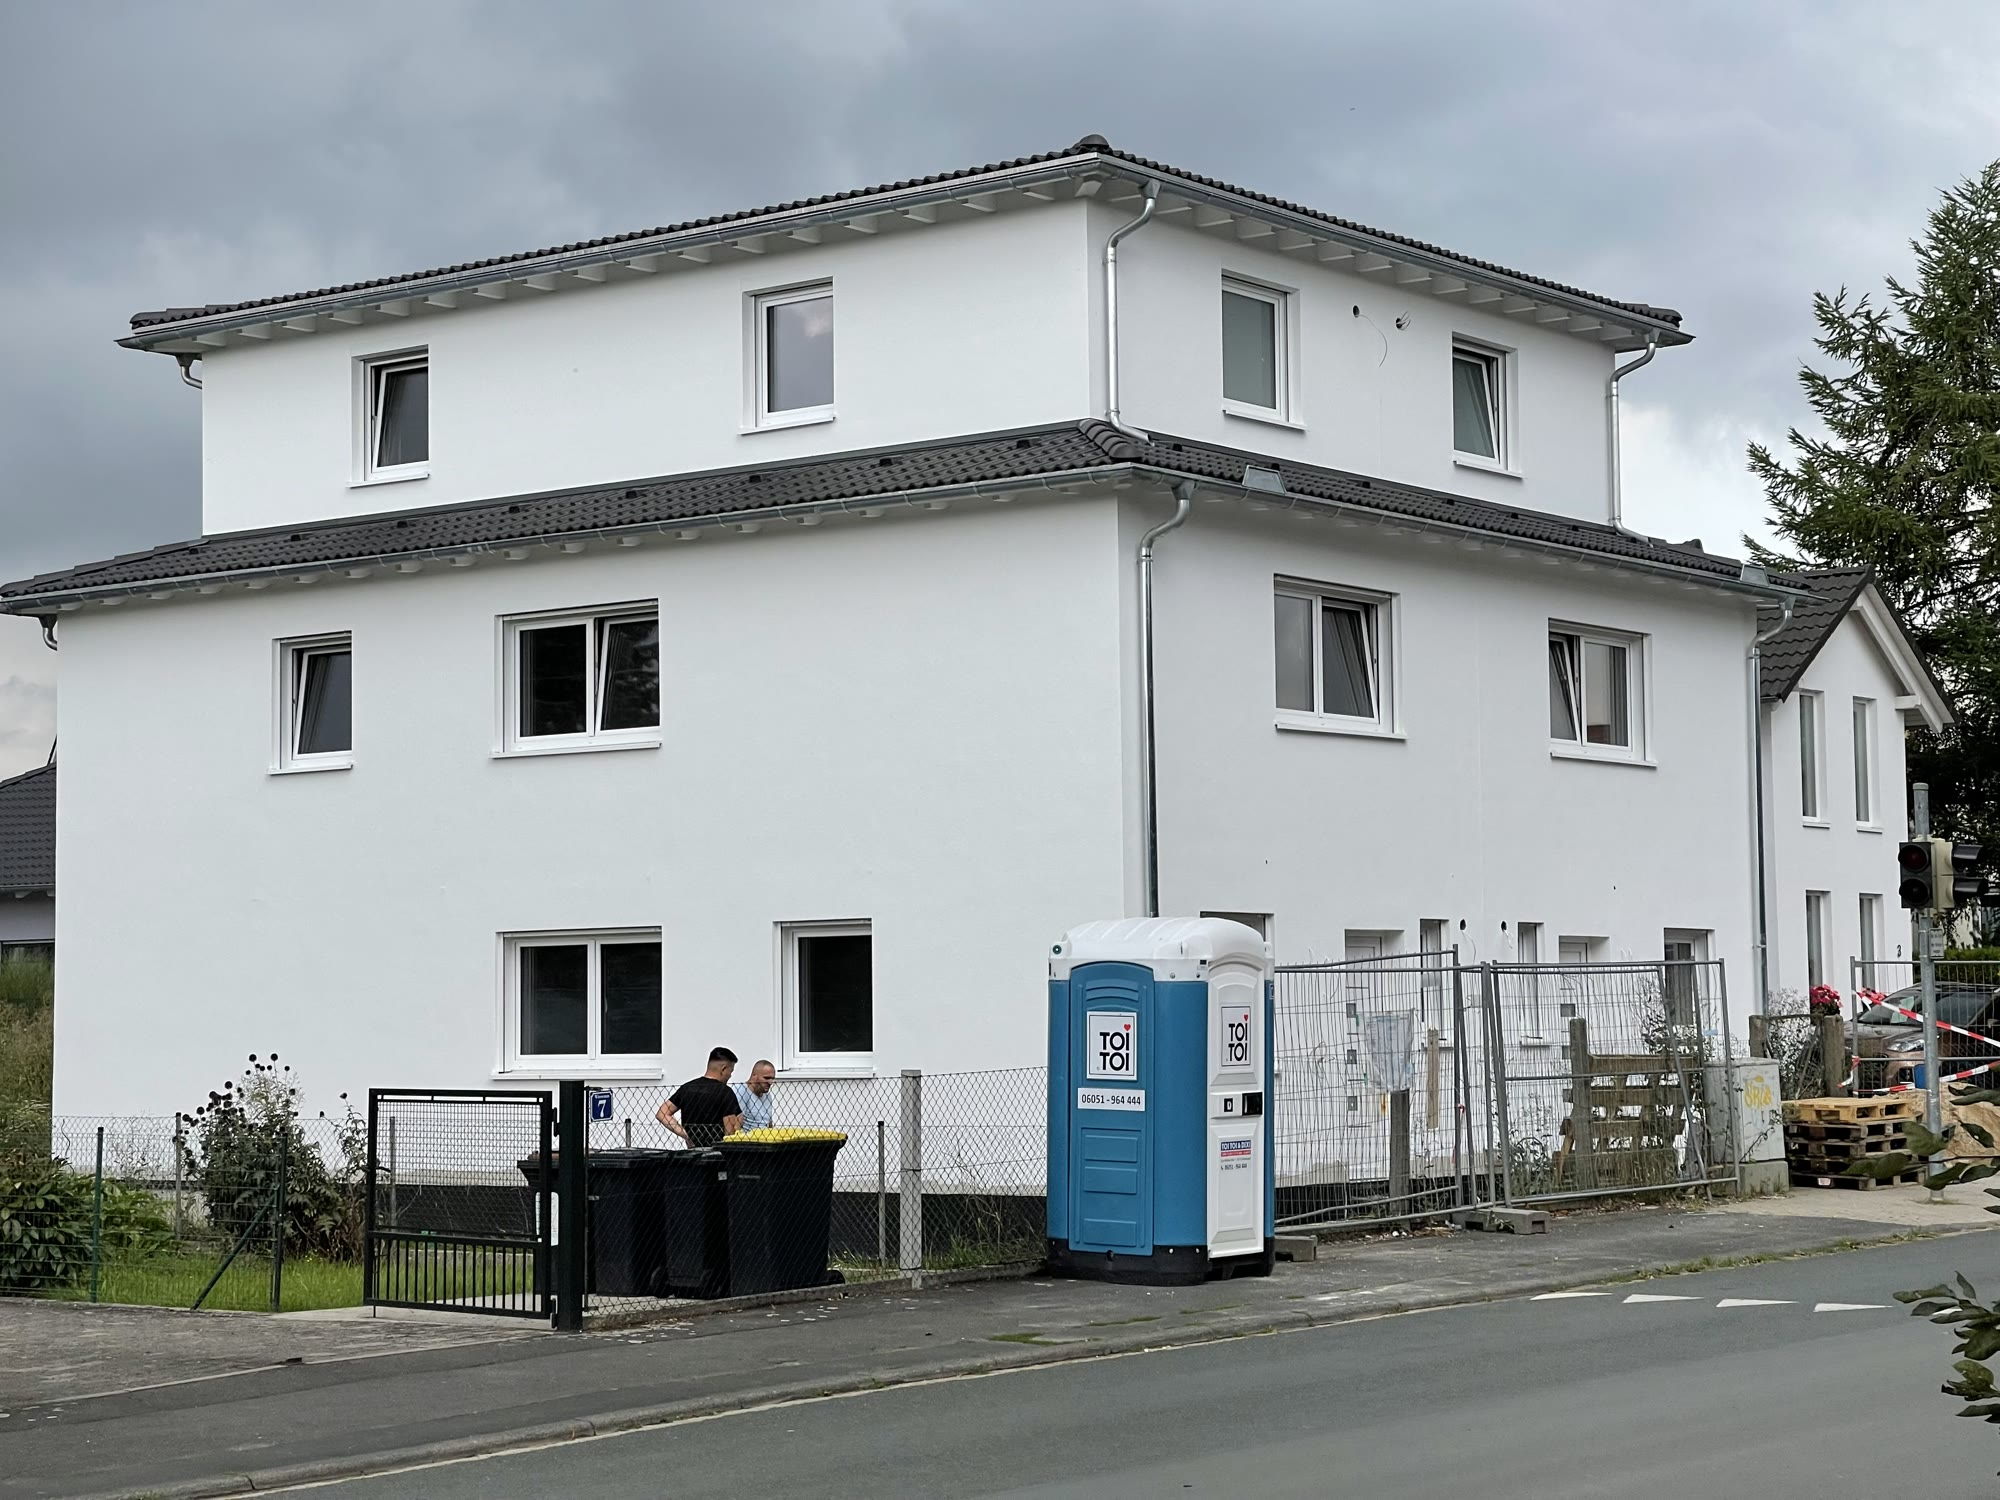
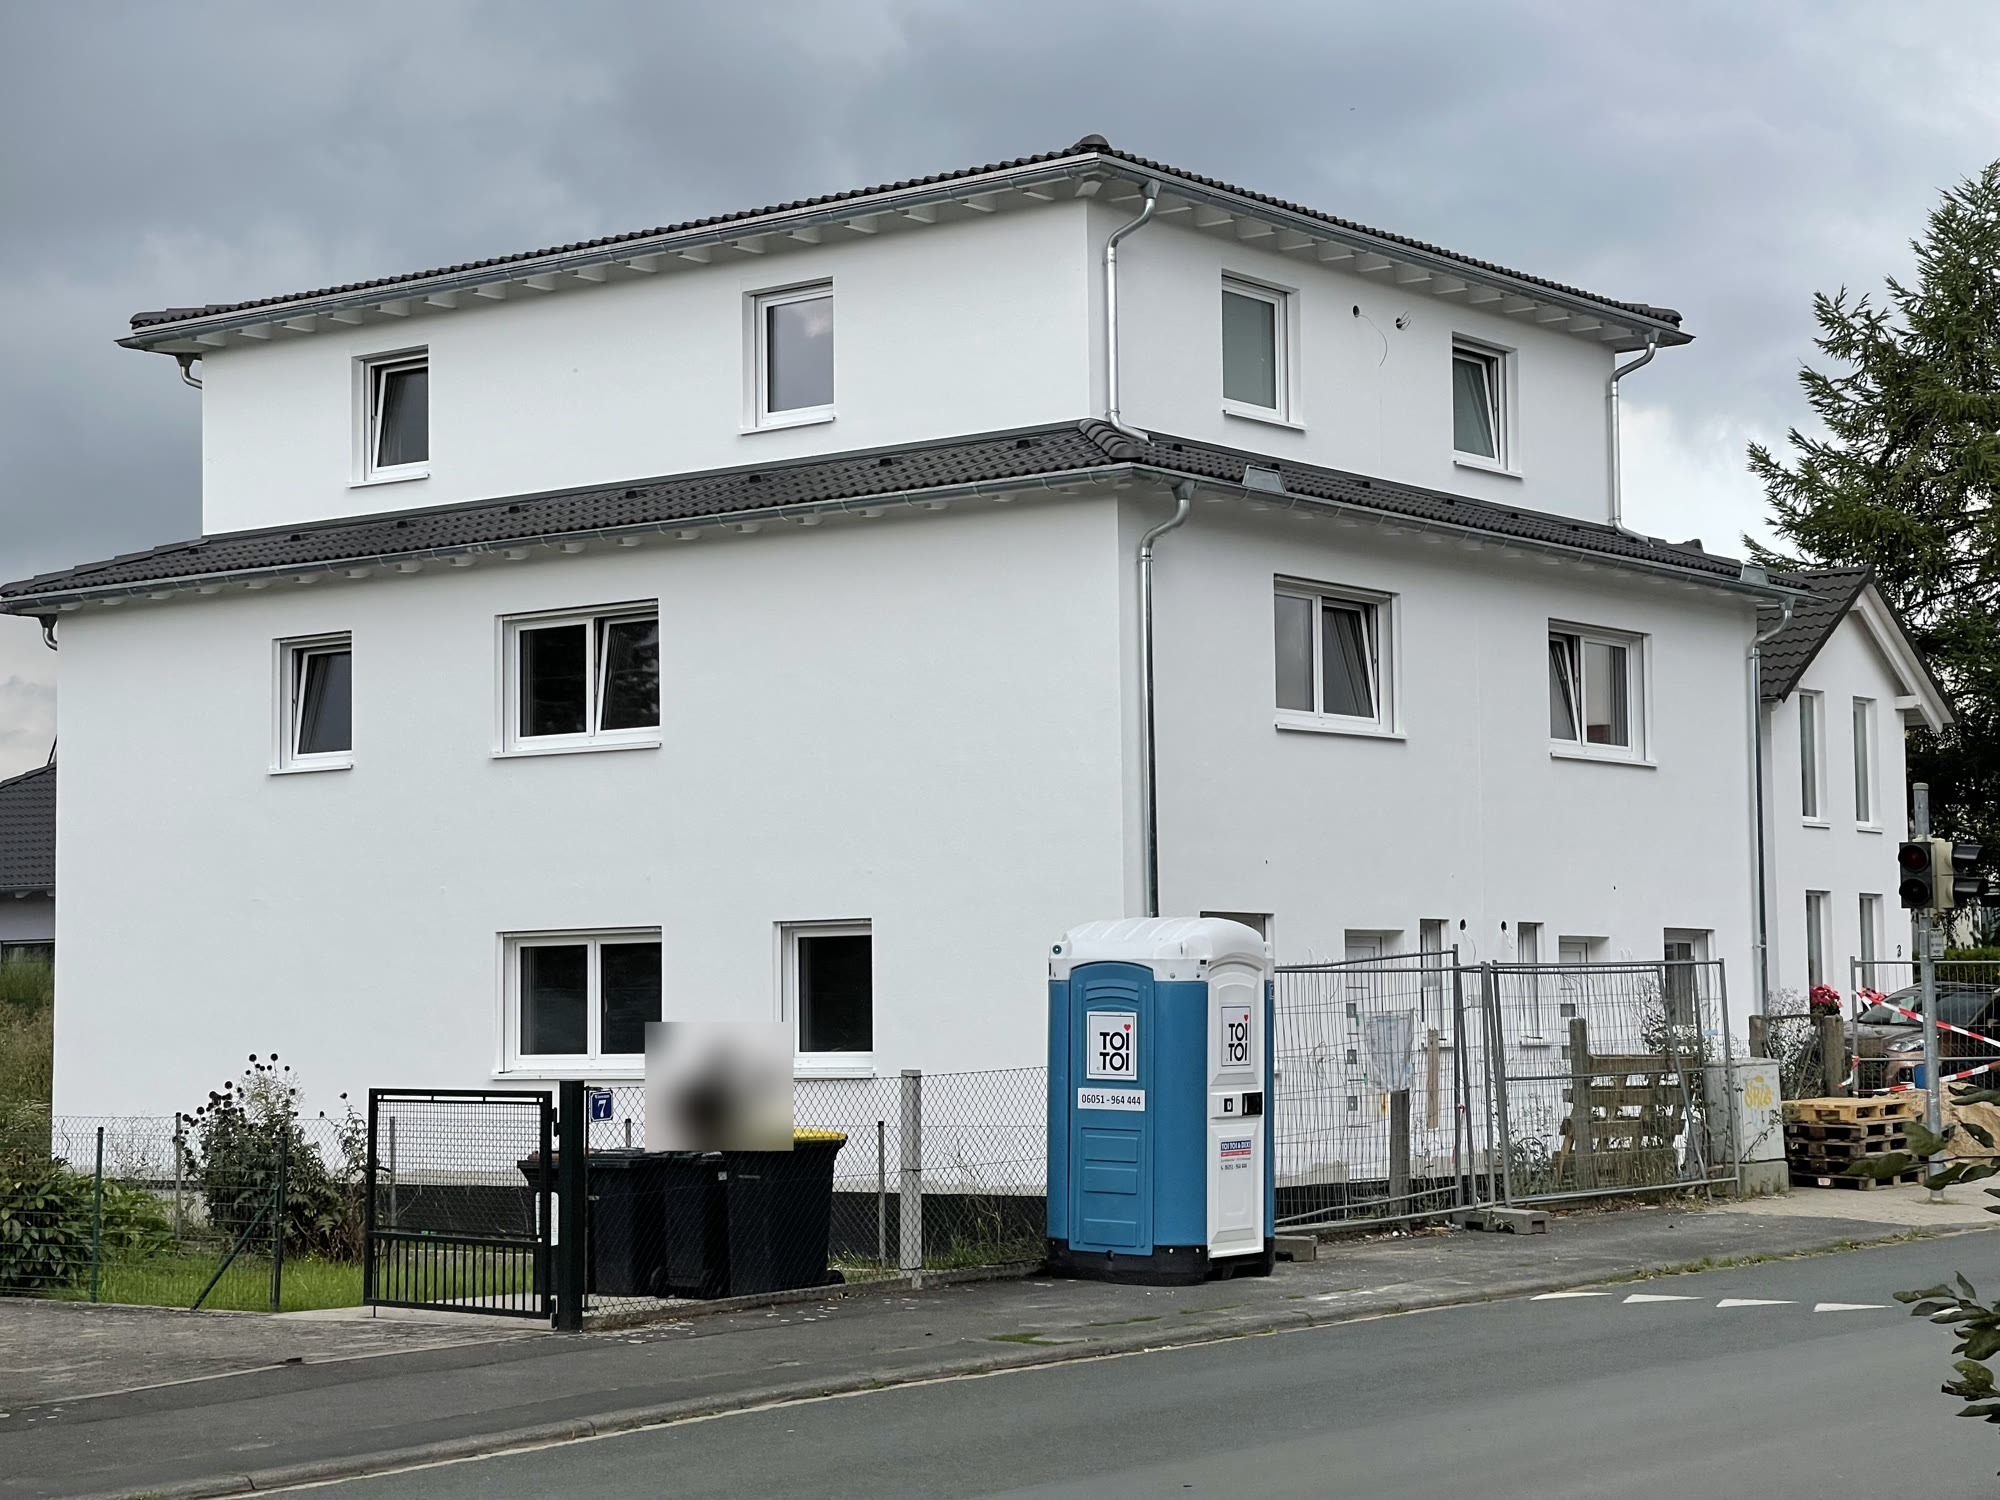
Wehrheim: Innenbild als Titelbild, Personen auf Foto unkenntlich gemacht

Changed region(s): [[0.31, 0.6747, 0.403, 0.7667]]

diff --git a/projekte/doppelhaeuser-wehrheim/index.html b/projekte/doppelhaeuser-wehrheim/index.html
@@ -23,7 +23,7 @@
 <main>
 
 <div class="projekt-titel">
-  <img src="bilder/01.jpg" alt="Doppelhäuser, Wehrheim">
+  <img src="bilder/03.jpg" alt="Doppelhäuser, Wehrheim">
   <div class="titel-box">
     <p class="brotkrumen"><a href="../../">Startseite</a> · <a href="../../projekte/">Projekte</a></p>
     <span class="etikett">Doppelhäuser</span>
@@ -49,7 +49,7 @@
     <p class="kicker">Bilder</p>
     <h2>Bildergalerie</h2>
     <p class="einleitung" style="font-size:17px">Zum Vergrößern auf ein Bild klicken.</p>
-    <div class="galerie"><a href="bilder/01.jpg"><img src="klein/01.jpg" alt="Doppelhäuser, Wehrheim, Bild 1" loading="lazy"></a><a href="bilder/02.jpg"><img src="klein/02.jpg" alt="Doppelhäuser, Wehrheim, Bild 2" loading="lazy"></a><a href="bilder/03.jpg"><img src="klein/03.jpg" alt="Doppelhäuser, Wehrheim, Bild 3" loading="lazy"></a></div>
+    <div class="galerie"><a href="bilder/03.jpg"><img src="klein/03.jpg" alt="Doppelhäuser, Wehrheim, Bild 1" loading="lazy"></a><a href="bilder/01.jpg"><img src="klein/01.jpg" alt="Doppelhäuser, Wehrheim, Bild 2" loading="lazy"></a><a href="bilder/02.jpg"><img src="klein/02.jpg" alt="Doppelhäuser, Wehrheim, Bild 3" loading="lazy"></a></div>
   </div>
 </section>
 

diff --git a/projekte/mehrfamilienhaus-18-wohneinheiten/index.html b/projekte/mehrfamilienhaus-18-wohneinheiten/index.html
@@ -63,7 +63,7 @@
         <div class="inhalt"><span class="etikett">Doppelhäuser</span><h3>Doppelhäuser, Mainz-Weisenau</h3><p>Moderne Doppelhäuser mit Dachterrasse.</p><span class="mehr">Zum Projekt</span></div>
       </a>
       <a class="karte" href="../../projekte/doppelhaeuser-wehrheim/" data-art="wohnen">
-        <div class="bild"><img src="../../projekte/doppelhaeuser-wehrheim/klein/01.jpg" alt="Doppelhäuser, Wehrheim" loading="lazy"></div>
+        <div class="bild"><img src="../../projekte/doppelhaeuser-wehrheim/klein/03.jpg" alt="Doppelhäuser, Wehrheim" loading="lazy"></div>
         <div class="inhalt"><span class="etikett">Doppelhäuser</span><h3>Doppelhäuser, Wehrheim</h3><p>Doppelhäuser im Taunus, mit Grundrissen zum Download.</p><span class="mehr">Zum Projekt</span></div>
       </a>
       <a class="karte" href="../../projekte/mehrfamilienwohnhaus-frankfurt/" data-art="wohnen">

diff --git a/projekte/index.html b/projekte/index.html
@@ -48,7 +48,7 @@
         <div class="inhalt"><span class="etikett">Doppelhäuser</span><h3>Doppelhäuser, Mainz-Weisenau</h3><p>Moderne Doppelhäuser mit Dachterrasse.</p><span class="mehr">Zum Projekt</span></div>
       </a>
       <a class="karte" href="../projekte/doppelhaeuser-wehrheim/" data-art="wohnen">
-        <div class="bild"><img src="../projekte/doppelhaeuser-wehrheim/klein/01.jpg" alt="Doppelhäuser, Wehrheim" loading="lazy"></div>
+        <div class="bild"><img src="../projekte/doppelhaeuser-wehrheim/klein/03.jpg" alt="Doppelhäuser, Wehrheim" loading="lazy"></div>
         <div class="inhalt"><span class="etikett">Doppelhäuser</span><h3>Doppelhäuser, Wehrheim</h3><p>Doppelhäuser im Taunus, mit Grundrissen zum Download.</p><span class="mehr">Zum Projekt</span></div>
       </a>
       <a class="karte" href="../projekte/mehrfamilienwohnhaus-frankfurt/" data-art="wohnen">

diff --git a/index.html b/index.html
@@ -76,7 +76,7 @@
         <div class="inhalt"><span class="etikett">Doppelhäuser</span><h3>Doppelhäuser, Mainz-Weisenau</h3><p>Moderne Doppelhäuser mit Dachterrasse.</p><span class="mehr">Zum Projekt</span></div>
       </a>
       <a class="karte" href="projekte/doppelhaeuser-wehrheim/" data-art="wohnen">
-        <div class="bild"><img src="projekte/doppelhaeuser-wehrheim/klein/01.jpg" alt="Doppelhäuser, Wehrheim" loading="lazy"></div>
+        <div class="bild"><img src="projekte/doppelhaeuser-wehrheim/klein/03.jpg" alt="Doppelhäuser, Wehrheim" loading="lazy"></div>
         <div class="inhalt"><span class="etikett">Doppelhäuser</span><h3>Doppelhäuser, Wehrheim</h3><p>Doppelhäuser im Taunus, mit Grundrissen zum Download.</p><span class="mehr">Zum Projekt</span></div>
       </a>
       <a class="karte" href="projekte/mehrfamilienwohnhaus-frankfurt/" data-art="wohnen">

diff --git a/projekte/reihen-doppelhaeuser-frankfurt/index.html b/projekte/reihen-doppelhaeuser-frankfurt/index.html
@@ -67,7 +67,7 @@
         <div class="inhalt"><span class="etikett">Doppelhäuser</span><h3>Doppelhäuser, Mainz-Weisenau</h3><p>Moderne Doppelhäuser mit Dachterrasse.</p><span class="mehr">Zum Projekt</span></div>
       </a>
       <a class="karte" href="../../projekte/doppelhaeuser-wehrheim/" data-art="wohnen">
-        <div class="bild"><img src="../../projekte/doppelhaeuser-wehrheim/klein/01.jpg" alt="Doppelhäuser, Wehrheim" loading="lazy"></div>
+        <div class="bild"><img src="../../projekte/doppelhaeuser-wehrheim/klein/03.jpg" alt="Doppelhäuser, Wehrheim" loading="lazy"></div>
         <div class="inhalt"><span class="etikett">Doppelhäuser</span><h3>Doppelhäuser, Wehrheim</h3><p>Doppelhäuser im Taunus, mit Grundrissen zum Download.</p><span class="mehr">Zum Projekt</span></div>
       </a>
     </div>

diff --git a/projekte/doppelhaeuser-mainz-weisenau/index.html b/projekte/doppelhaeuser-mainz-weisenau/index.html
@@ -59,7 +59,7 @@
     <a class="knopf rahmen" href="../../projekte/">Alle Projekte</a></div>
     <div class="karten">
       <a class="karte" href="../../projekte/doppelhaeuser-wehrheim/" data-art="wohnen">
-        <div class="bild"><img src="../../projekte/doppelhaeuser-wehrheim/klein/01.jpg" alt="Doppelhäuser, Wehrheim" loading="lazy"></div>
+        <div class="bild"><img src="../../projekte/doppelhaeuser-wehrheim/klein/03.jpg" alt="Doppelhäuser, Wehrheim" loading="lazy"></div>
         <div class="inhalt"><span class="etikett">Doppelhäuser</span><h3>Doppelhäuser, Wehrheim</h3><p>Doppelhäuser im Taunus, mit Grundrissen zum Download.</p><span class="mehr">Zum Projekt</span></div>
       </a>
       <a class="karte" href="../../projekte/mehrfamilienwohnhaus-frankfurt/" data-art="wohnen">
